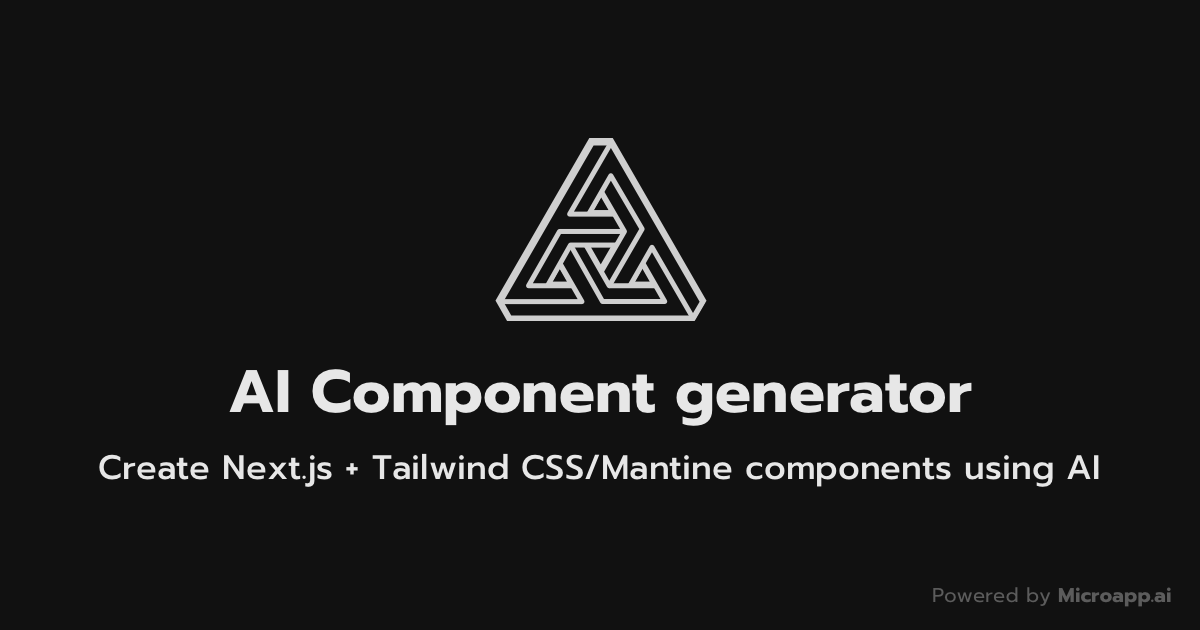
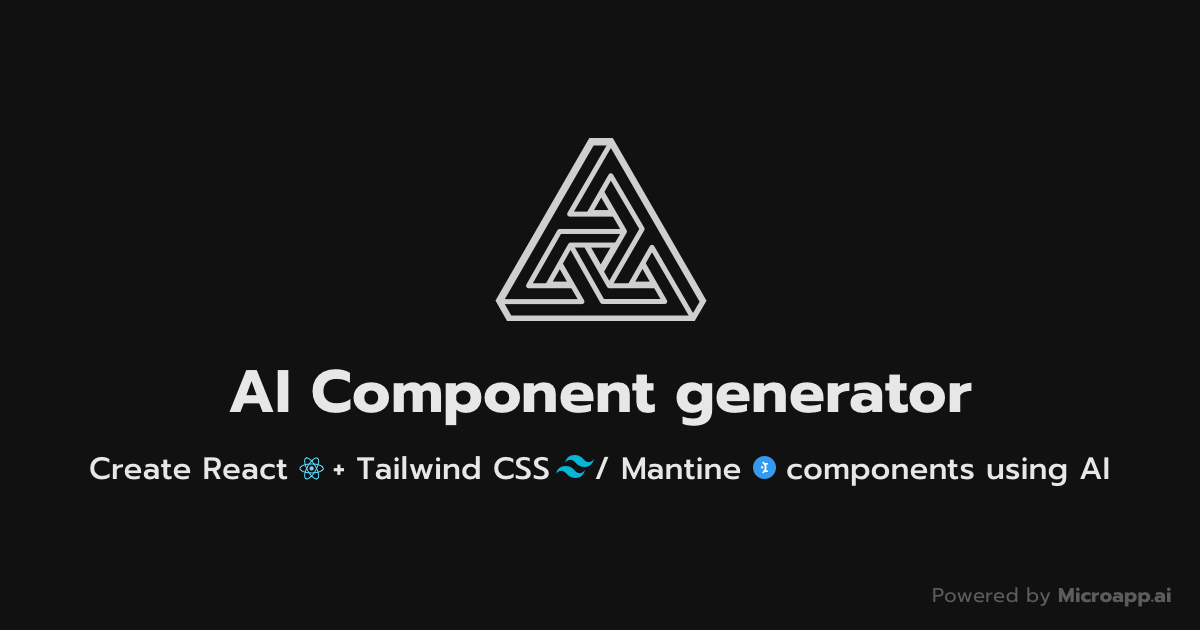
fix: change og image and titles

Changed region(s): [[0.0617, 0.7238, 0.925, 0.7841]]

diff --git a/pages/index.tsx b/pages/index.tsx
@@ -24,9 +24,9 @@ import { getHotkeyHandler, useDisclosure } from '@mantine/hooks';
 import Head from 'next/head';
 import { IconBrandTwitter, IconCheck, IconCopy } from '@tabler/icons-react';
 import { TwitterShareButton } from 'next-share';
-import { GradientColorText, TypeWriter } from '@/components';
+import { GradientColorText } from '@/components';
 import { removeTripleBackticksAndJsx, cleanCode } from '@/utils';
-import { mantineLogo, tailwindLogo } from '@/assets';
+import { mantineLogo, reactLogo, tailwindLogo } from '@/assets';
 
 const mantineCode =
   'import { Button } from "@mantine/core"; \n \nconst MyButton = () => <Button>Hello World</Button>;\n \nexport default MyButton;';
@@ -171,9 +171,9 @@ const Home: FC = () => {
           </Title>
         </GradientColorText>
 
-        <Text align="center" weight="bold" size={30}>
-          Create React + Tailwind CSS/Mantine components using AI
-        </Text>
+        <Title order={2} align="center" weight="bold" size={28}>
+          Create React + Tailwind CSS / Mantine components using AI
+        </Title>
 
         <Flex w="100%" mt={30} justify="center" align="center" gap="lg">
           <SegmentedControl

diff --git a/assets/index.ts b/assets/index.ts
@@ -7,6 +7,7 @@ export { default as logoDark } from './logo-white.svg';
 export { default as logoFull } from './logo-full.svg';
 export { default as logoFullDark } from './logo-full-dark.svg';
 export { default as mantineLogo } from './mantine-logo.svg';
+export { default as reactLogo } from './react-logo.svg';
 export { default as tailwindLogo } from './tailwind-logo.svg';
 export { default as tikTokIcon } from './tiktok.svg';
 export { default as twitterIcon } from './twitter.svg';
